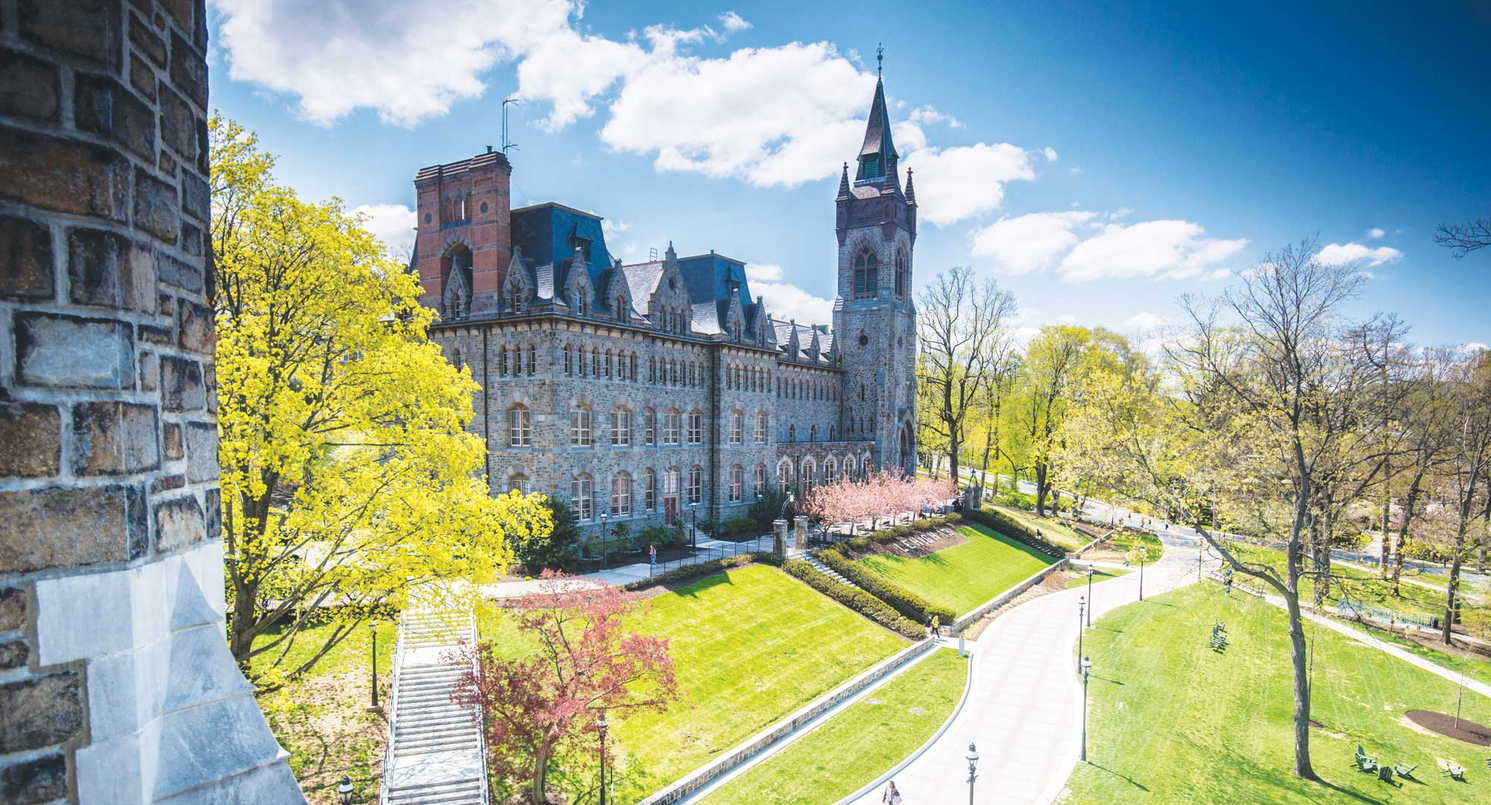
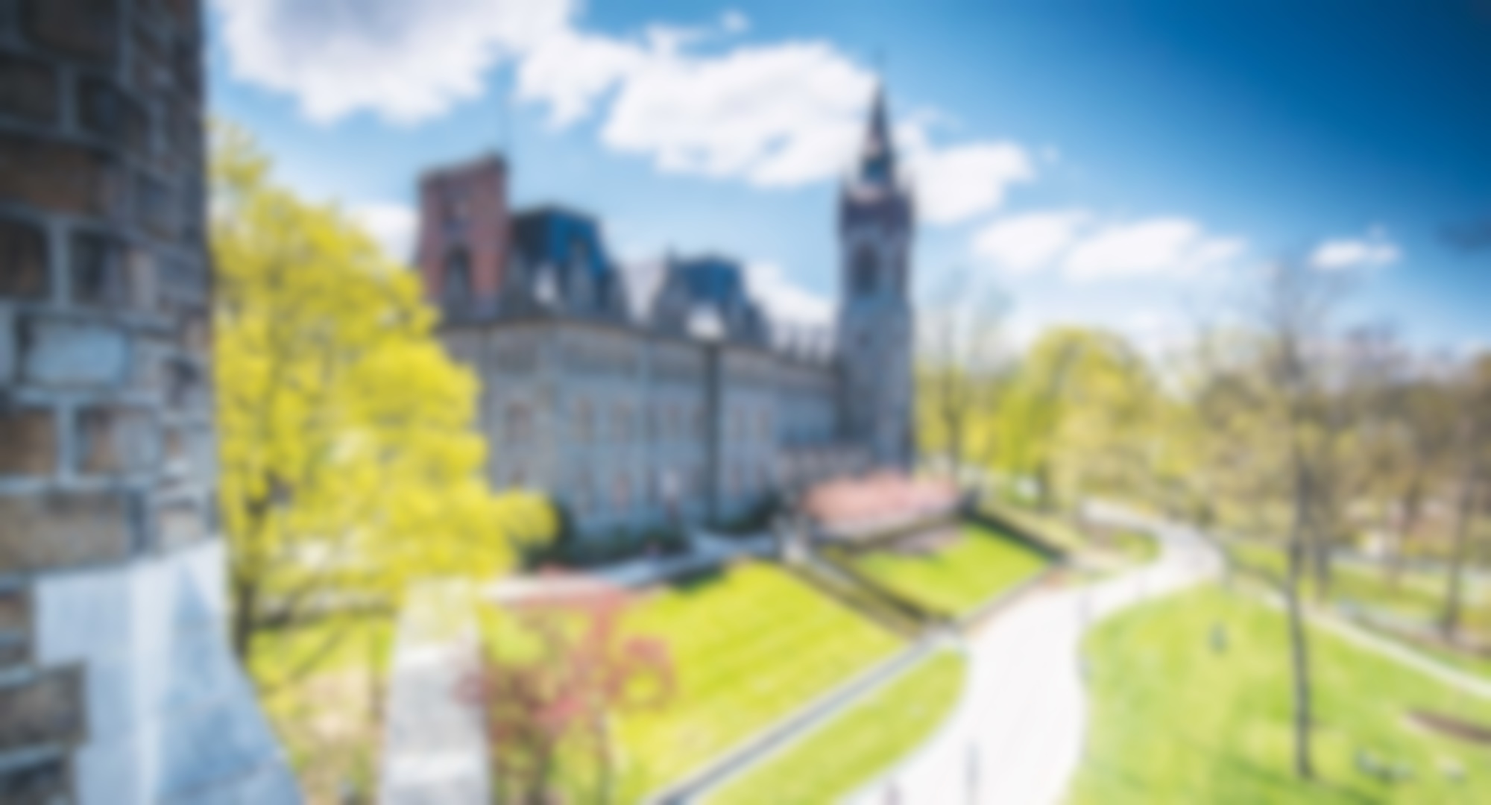
Backgrounds made blurry to improve UI/UX and scrolling to different parts of the pages off of buttons works

diff --git a/src/components/mainComponents/js/Main.jsx b/src/components/mainComponents/js/Main.jsx
@@ -1,6 +1,6 @@
 import React, { useEffect, useState } from 'react';
 import { useNavigate } from 'react-router-dom';
-import { INTRO_TEXT, EDUCATION_TEXT, BEYOND_CLASSES_TEXT, EXTRACURRICULARS_TEXT } from '../../text/text';
+import { INTRO_TEXT, EDUCATION_TEXT, BEYOND_CLASSES_TEXT, EXTRACURRICULARS_TEXT, UNITE_PRO_TEXT } from '../../text/text';
 import RainbowRippleBackground from '../../sideComponents/js/RainbowRippleBackground';
 import ImageCarousel from '../../sideComponents/js/ImageCarousel';
 import '../css/main.css'
@@ -47,6 +47,13 @@ function Main() {
     return () => window.removeEventListener('scroll', handleScroll);
   }, []);
 
+  const handleScroll = (targetY) => {
+    window.scrollTo({
+      top: targetY,
+      behavior: "smooth",
+    });
+  };
+
   return (
     <>
       {/*                                             Add viewportHeight/2 so transition happens when spacer is in middle of screen, not on top. */}
@@ -77,9 +84,9 @@ function Main() {
               </div>
             </div>
             <div className="sections">
-              <div className="sectionLink">Education</div>
-              <div className="sectionLink">Personal Projects</div>
-              <div className="sectionLink">Work History</div>
+              <div className="sectionLink" onClick={() => handleScroll(endSectionOne + spacerDist/2)}>Education</div>
+              <div className="sectionLink" onClick={() => handleScroll(endSectionTwo + spacerDist/2)}>Personal Projects</div>
+              <div className="sectionLink" onClick={() => handleScroll(endSectionThree + spacerDist/2)}>Work History</div>
             </div>
           </div>
         </div>
@@ -121,9 +128,12 @@ function Main() {
         <div className="spacer"></div>
         {/* START UNITE-PRO SECTION */}
         <div id="secondSection" className="section">
-          <div className="textSection scale-on-scroll" id="educationInformation">
-            { EDUCATION_TEXT }
-          </div>
+          <div className="scale-on-scroll">
+                <div className="textBlob bobbing1">
+                  <h3 className='title'>Unite-Pro.net</h3>
+                  { UNITE_PRO_TEXT }
+                </div>
+              </div>
           <div className="imageDisplay scale-on-scroll" id="professionalImage">
             <img src="./assets/me/Grad.png"></img>
           </div>

diff --git a/src/components/text/text.js b/src/components/text/text.js
@@ -9,3 +9,8 @@ by creating autograders for the different assignments. These autograders were al
 and fielded questions from students taking the class.`;
 export const EXTRACURRICULARS_TEXT = `I participated in many different music ensembles for the entirety of my stay at Lehigh: Brass Ensemble, Wind Ensemble,
 Marching 97, & Jazz Orchestra.`;
+export const UNITE_PRO_TEXT = `This is my project that I have taken the furthest. It is a live website that you can find at unite-pro.net! The webapp that has two main draws; 1: it
+serves as a draft sim where users can practice drafting alone, with others online, or versus an AI. 2: I use this webapp to store and do data anlysis on pro matches. These are two
+niches that are completely unfilled anywhere else in the Pokemon Unite community so I wanted to create the webapp for myself and others to use. The Webapp is hosted on Heroku with
+a database on Supabase. The webapp is completely stateless and employs AI techniques like planning and A* search. For the future: I have broken every Pokemon down into their core 
+attributes and once I have gathered enough data, I plan to train a better AI using deep learning, I am just limited by data right now.`

diff --git a/src/components/mainComponents/css/main.css b/src/components/mainComponents/css/main.css
@@ -20,7 +20,8 @@ body::-webkit-scrollbar {
 }
 
 #backgroundImageDisplay.introSection {
-    background-image: linear-gradient(to bottom right, rgb(50, 46, 63), rgb(101, 8, 108));;
+    /* background-image: linear-gradient(to bottom right, rgb(50, 46, 63), rgb(101, 8, 108)); */
+    background-image: url('/assets/backgrounds/intro.png');
 }
 
 #backgroundImageDisplay.educationSection {
